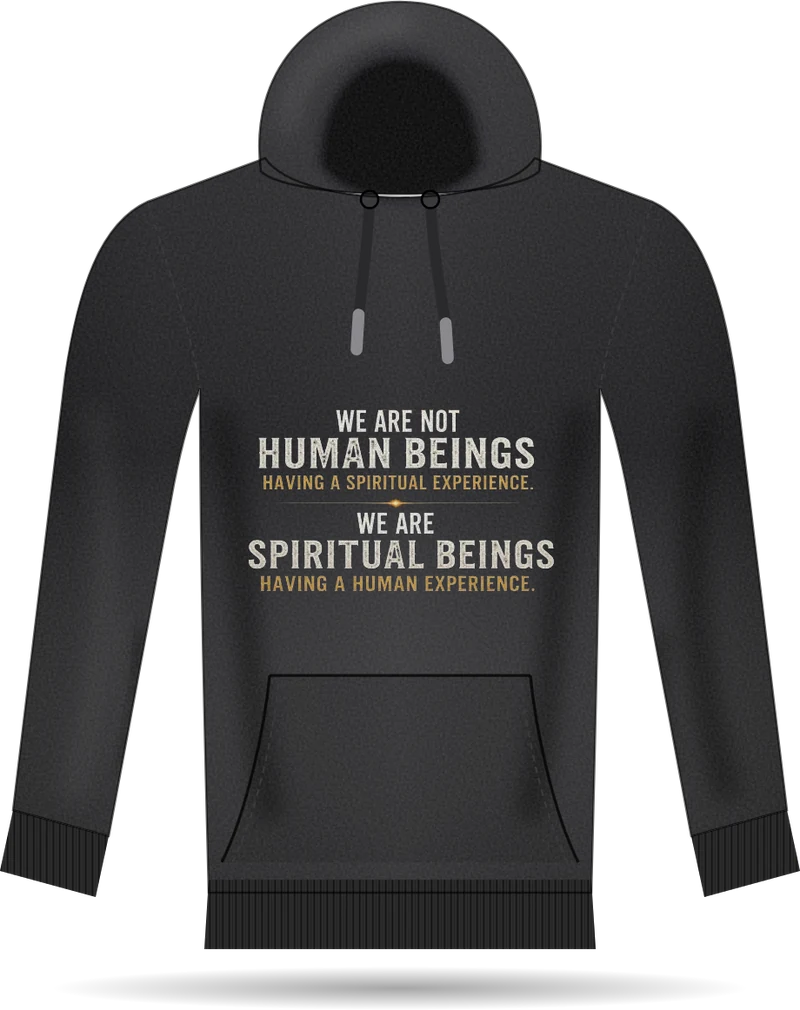
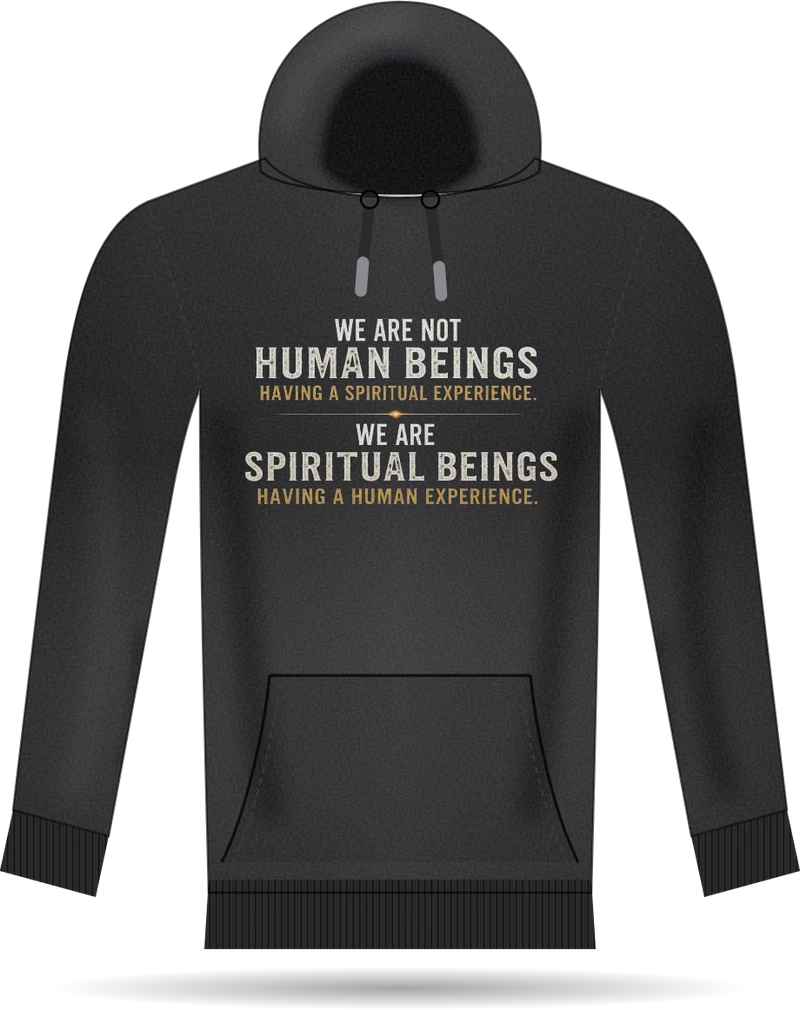
Raise hoodie print, cache-bust stylesheet and mockup images
Claude-Session: https://claude.ai/code/session_01DJGUprk7X9fiRTMqbdsdPb

Changed region(s): [[0.3125, 0.2455, 0.7188, 0.5832]]

diff --git a/shop.html b/shop.html
@@ -8,7 +8,7 @@
   <link rel="preconnect" href="https://fonts.googleapis.com">
   <link rel="preconnect" href="https://fonts.gstatic.com" crossorigin>
   <link href="https://fonts.googleapis.com/css2?family=Inter:wght@400;500;600;700&display=swap" rel="stylesheet">
-  <link rel="stylesheet" href="css/style.css">
+  <link rel="stylesheet" href="css/style.css?v=202610281512">
 </head>
 <body>
   <header class="site-header">
@@ -70,14 +70,14 @@
         <p class="lede" style="margin-top:12px">We are spiritual beings having a human experience.</p>
         <div class="tiles">
           <div class="tile">
-            <div class="media"><img class="garment-img" src="images/tee.webp" alt="Black T-shirt with the print: We are not human beings having a spiritual experience. We are spiritual beings having a human experience."></div>
+            <div class="media"><img class="garment-img" src="images/tee.webp?v=202610281513" alt="Black T-shirt with the print: We are not human beings having a spiritual experience. We are spiritual beings having a human experience."></div>
             <p class="kicker">Apparel</p>
             <h3>T-Shirt</h3>
             <p class="price">$35</p>
             <div class="actions"><label class="sr-only" for="tee-size">Size</label><select class="size-select" id="tee-size"><option>S</option><option>M</option><option>L</option><option>XL</option><option>2XL</option></select><a href="#" class="btn small">Buy</a></div>
           </div>
           <div class="tile">
-            <div class="media"><img class="garment-img" src="images/hoodie.webp" alt="Black hoodie with the print: We are not human beings having a spiritual experience. We are spiritual beings having a human experience."></div>
+            <div class="media"><img class="garment-img" src="images/hoodie.webp?v=202610281513" alt="Black hoodie with the print: We are not human beings having a spiritual experience. We are spiritual beings having a human experience."></div>
             <p class="kicker">Apparel</p>
             <h3>Hoodie</h3>
             <p class="price">$65</p>
@@ -99,6 +99,6 @@
       </div>
     </div>
   </footer>
-  <script src="js/main.js"></script>
+  <script src="js/main.js?v=202610281512"></script>
 </body>
 </html>

diff --git a/index.html b/index.html
@@ -8,7 +8,7 @@
   <link rel="preconnect" href="https://fonts.googleapis.com">
   <link rel="preconnect" href="https://fonts.gstatic.com" crossorigin>
   <link href="https://fonts.googleapis.com/css2?family=Inter:wght@400;500;600;700&display=swap" rel="stylesheet">
-  <link rel="stylesheet" href="css/style.css">
+  <link rel="stylesheet" href="css/style.css?v=202610281512">
 </head>
 <body>
   <header class="site-header">
@@ -78,7 +78,7 @@
             <div class="actions"><a href="shop.html#audiobook" class="btn small">Buy</a></div>
           </div>
           <div class="tile">
-            <div class="media"><img class="garment-img" src="images/tee.webp" alt="Black T-shirt with the print: We are not human beings having a spiritual experience. We are spiritual beings having a human experience."></div>
+            <div class="media"><img class="garment-img" src="images/tee.webp?v=202610281513" alt="Black T-shirt with the print: We are not human beings having a spiritual experience. We are spiritual beings having a human experience."></div>
             <p class="kicker">Apparel</p>
             <h3>Wear it.</h3>
             <p class="price">From $35</p>
@@ -100,6 +100,6 @@
       </div>
     </div>
   </footer>
-  <script src="js/main.js"></script>
+  <script src="js/main.js?v=202610281512"></script>
 </body>
 </html>

diff --git a/about.html b/about.html
@@ -8,7 +8,7 @@
   <link rel="preconnect" href="https://fonts.googleapis.com">
   <link rel="preconnect" href="https://fonts.gstatic.com" crossorigin>
   <link href="https://fonts.googleapis.com/css2?family=Inter:wght@400;500;600;700&display=swap" rel="stylesheet">
-  <link rel="stylesheet" href="css/style.css">
+  <link rel="stylesheet" href="css/style.css?v=202610281512">
 </head>
 <body>
   <header class="site-header">
@@ -71,6 +71,6 @@
       </div>
     </div>
   </footer>
-  <script src="js/main.js"></script>
+  <script src="js/main.js?v=202610281512"></script>
 </body>
 </html>

diff --git a/book.html b/book.html
@@ -8,7 +8,7 @@
   <link rel="preconnect" href="https://fonts.googleapis.com">
   <link rel="preconnect" href="https://fonts.gstatic.com" crossorigin>
   <link href="https://fonts.googleapis.com/css2?family=Inter:wght@400;500;600;700&display=swap" rel="stylesheet">
-  <link rel="stylesheet" href="css/style.css">
+  <link rel="stylesheet" href="css/style.css?v=202610281512">
 </head>
 <body>
   <header class="site-header">
@@ -67,6 +67,6 @@
       </div>
     </div>
   </footer>
-  <script src="js/main.js"></script>
+  <script src="js/main.js?v=202610281512"></script>
 </body>
 </html>

diff --git a/contact.html b/contact.html
@@ -8,7 +8,7 @@
   <link rel="preconnect" href="https://fonts.googleapis.com">
   <link rel="preconnect" href="https://fonts.gstatic.com" crossorigin>
   <link href="https://fonts.googleapis.com/css2?family=Inter:wght@400;500;600;700&display=swap" rel="stylesheet">
-  <link rel="stylesheet" href="css/style.css">
+  <link rel="stylesheet" href="css/style.css?v=202610281512">
 </head>
 <body>
   <header class="site-header">
@@ -58,6 +58,6 @@
       </div>
     </div>
   </footer>
-  <script src="js/main.js"></script>
+  <script src="js/main.js?v=202610281512"></script>
 </body>
 </html>
